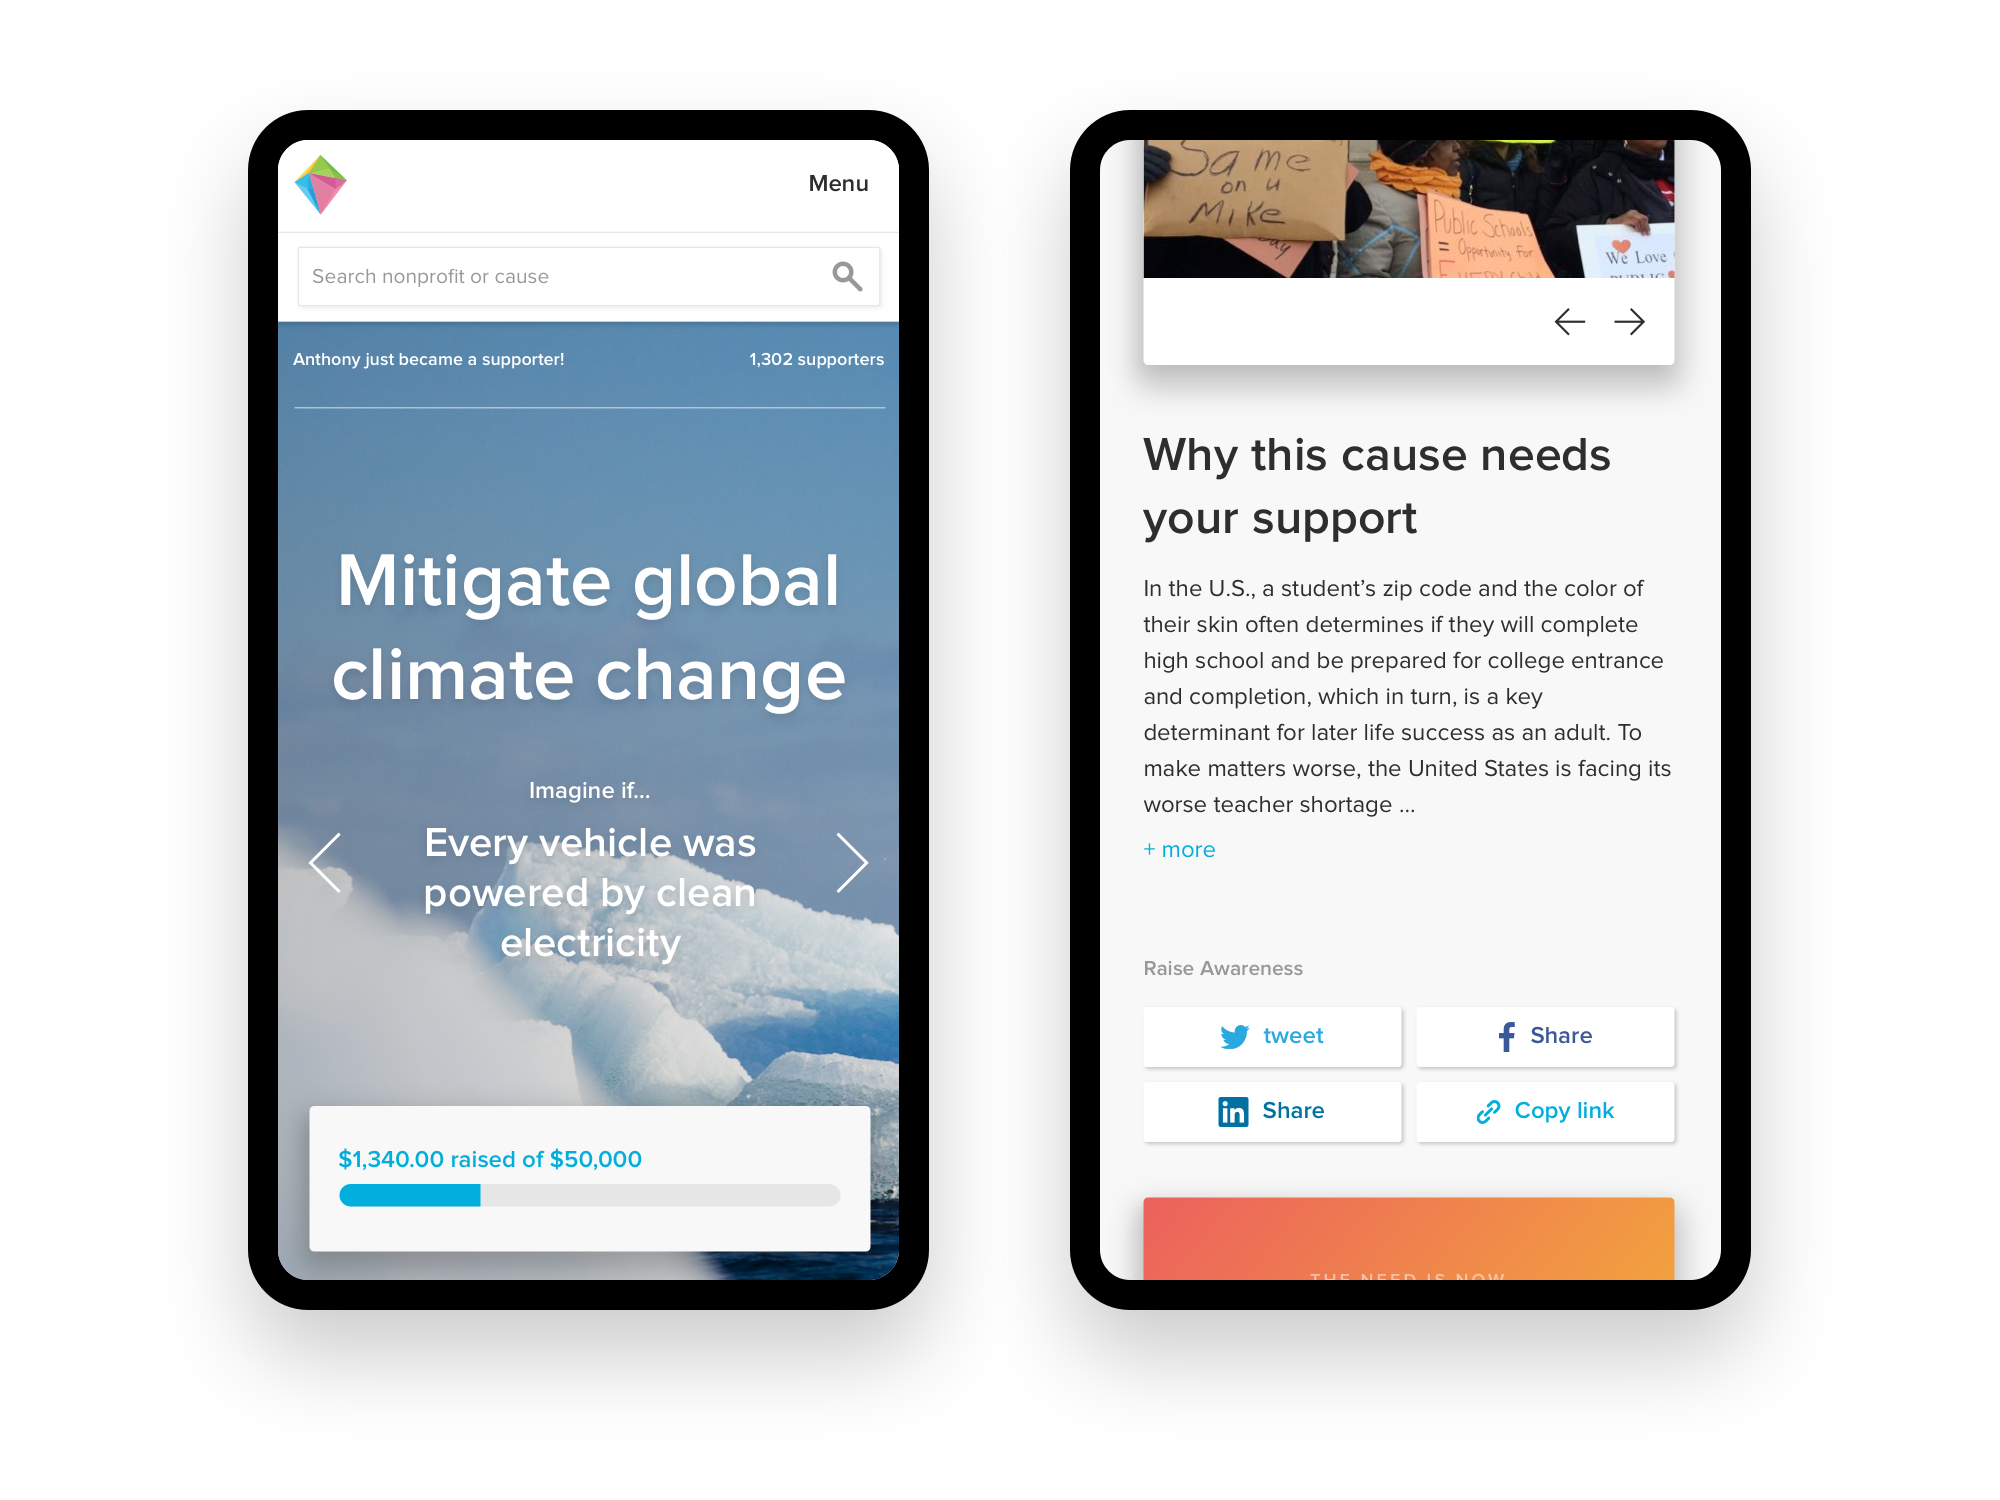
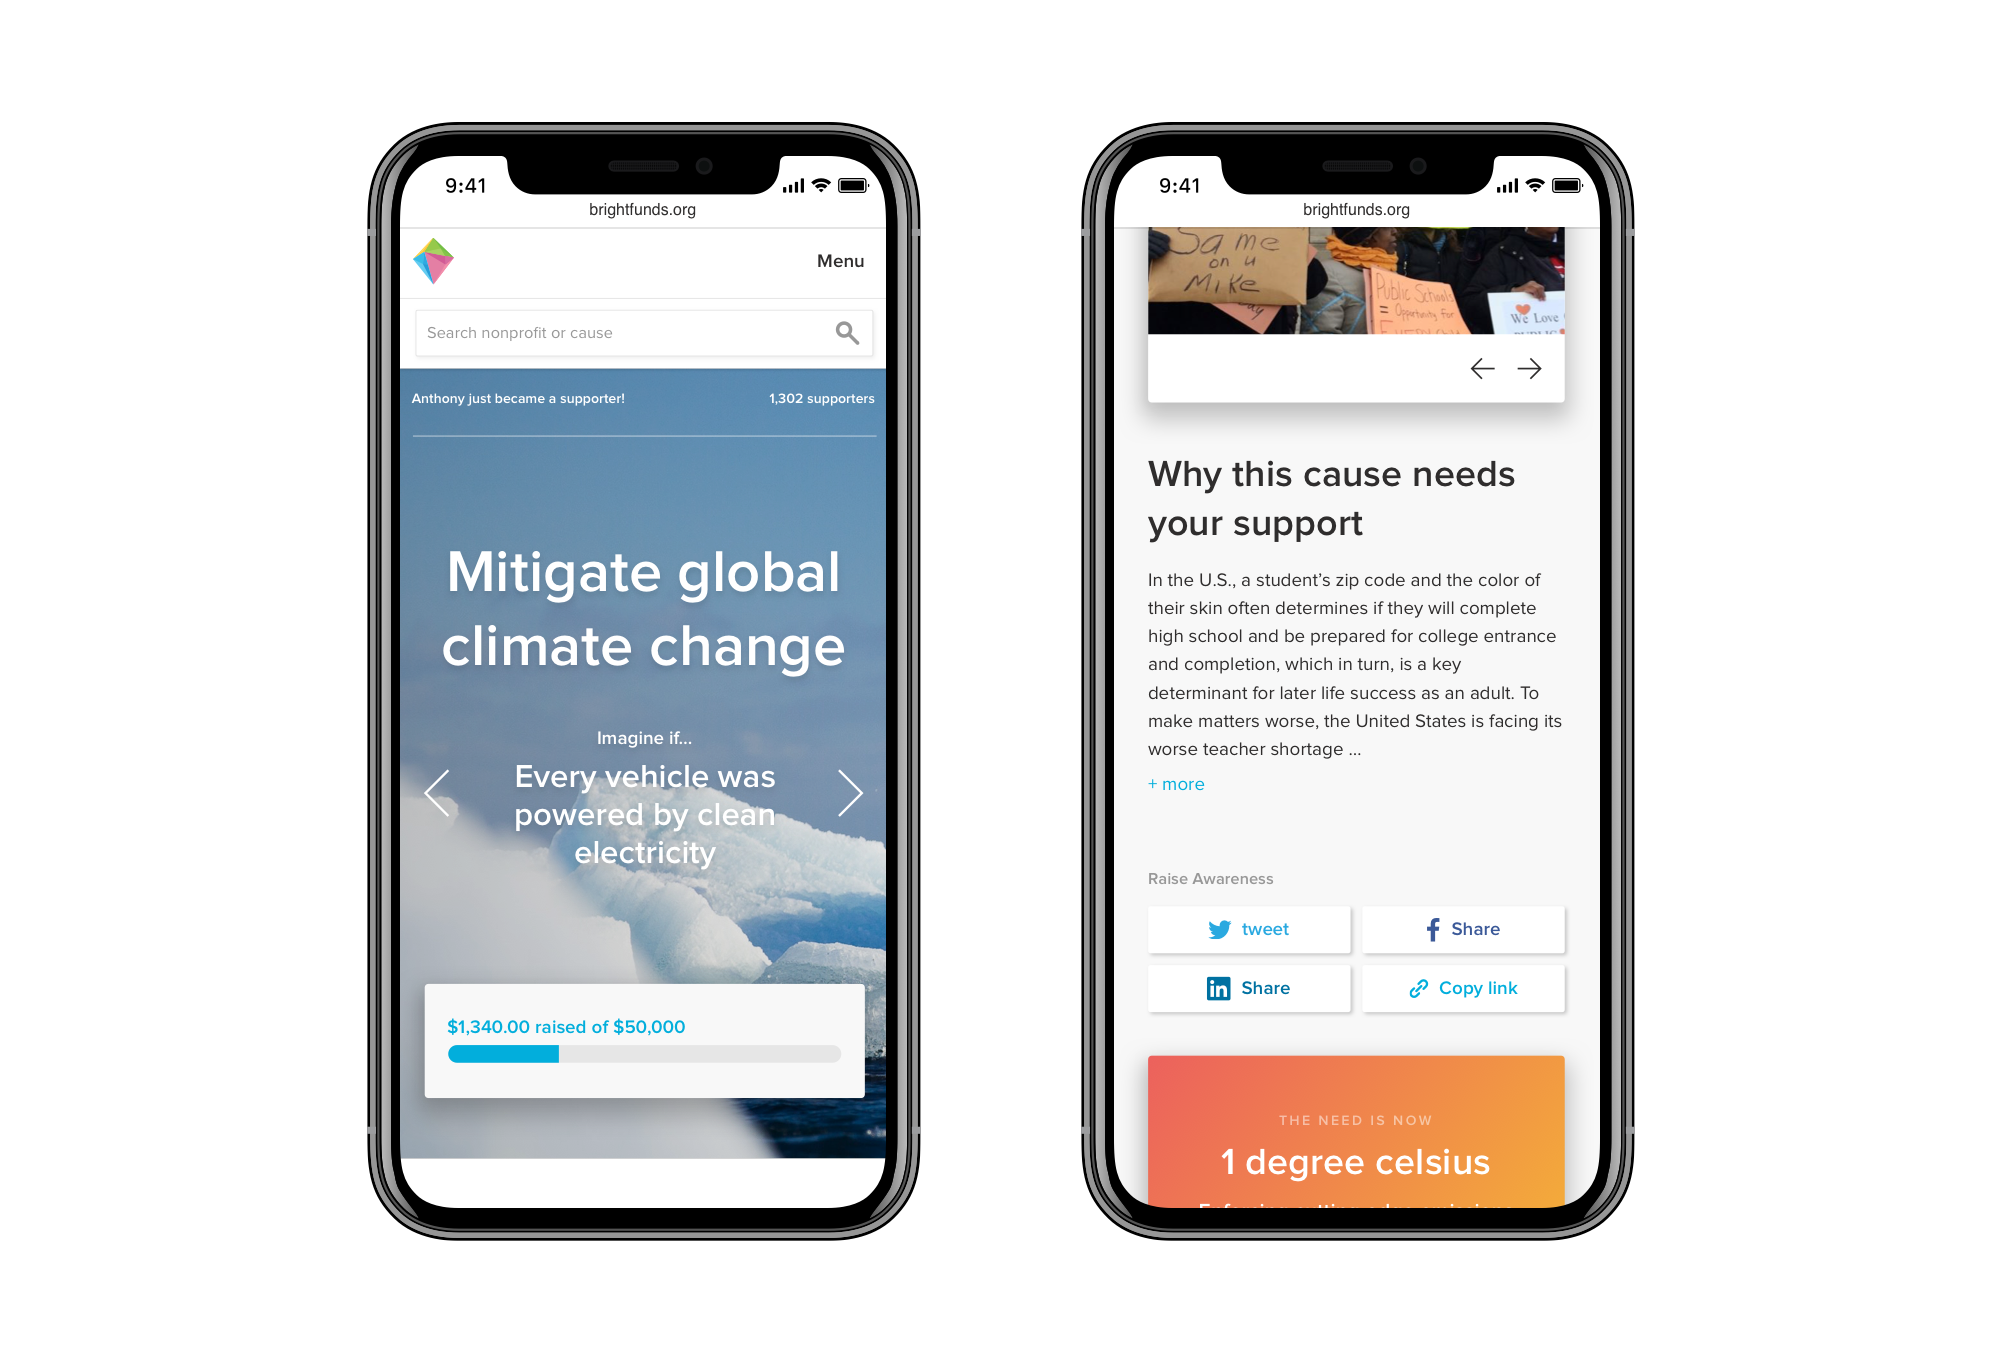
Rework foundation funn fund case study

Changed region(s): [[0.527, 0.0617, 0.899, 0.9251], [0.124, 0.0617, 0.465, 0.9251]]

diff --git a/public/css/styles.css b/public/css/styles.css
@@ -128,6 +128,12 @@ p {
   margin-bottom: 2rem;
   color: var(--color-primary-text); }
 
+.p--large {
+  font-size: 2.8rem; }
+
+.p--small {
+  font-size: 1.6rem; }
+
 blockquote {
   font-size: 2.8rem;
   line-height: 1.5;
@@ -139,9 +145,6 @@ blockquote {
       margin-left: 0;
       margin-right: 0;
       text-align: left; } }
-
-.p--large {
-  font-size: 2.8rem; }
 
 .section-title {
   font-size: 3.2rem;
@@ -704,6 +707,25 @@ li {
     border-radius: 10px;
     box-shadow: 0 30px 60px 0 rgba(0, 0, 0, 0.2); }
 
+.case-study__details {
+  grid-column: 2 / span 10;
+  grid-gap: 6rem;
+  padding: 3rem 0; }
+  .case-study__details li {
+    padding-bottom: 0; }
+  @media only screen and (max-width: 530px) {
+    .case-study__details {
+      grid-gap: 0; } }
+
+.case-study__details-section {
+  grid-column: span 4; }
+  @media only screen and (max-width: 530px) {
+    .case-study__details-section {
+      grid-column: span 12; } }
+
+.case-study__details-description {
+  opacity: .5; }
+
 .case-study__company {
   font-size: 4rem;
   color: black;
@@ -738,6 +760,57 @@ li {
   @media only screen and (max-width: 375px) {
     .case-study__content-wrapper--md {
       padding: 5rem 3rem; } }
+
+.case-study__introducing {
+  align-items: center;
+  padding: 10rem 0; }
+
+.case-study__introducing-text {
+  grid-column: 3 / span 4; }
+  @media only screen and (max-width: 920px) {
+    .case-study__introducing-text {
+      grid-column: 3 / span 8;
+      margin-bottom: 6rem; } }
+  @media only screen and (max-width: 530px) {
+    .case-study__introducing-text {
+      grid-column: 1 / span 12;
+      padding-left: 3rem;
+      padding-right: 3rem; } }
+
+.case-study__introducing-description {
+  margin-top: 3rem; }
+
+.case-study__introducing-image {
+  grid-column: span 4; }
+  .case-study__introducing-image img {
+    width: 282px;
+    float: right; }
+    @media only screen and (max-width: 920px) {
+      .case-study__introducing-image img {
+        float: left; } }
+  @media only screen and (max-width: 920px) {
+    .case-study__introducing-image {
+      grid-column: 3 / span 8; } }
+
+.case-study__problem-section {
+  background-color: var(--color-header-bg) !important; }
+
+.case-study__problems {
+  grid-column: 2 / span 10;
+  grid-gap: 3rem;
+  padding-bottom: 6rem; }
+
+.case-study__problem {
+  grid-column: span 4;
+  background-color: var(--color-primary-bg);
+  box-shadow: 0 30px 60px 0 rgba(0, 0, 0, 0.2);
+  padding: 3rem; }
+  @media only screen and (max-width: 530px) {
+    .case-study__problem {
+      grid-column: 1 / span 12; } }
+
+.case-study__problem-title {
+  opacity: .5; }
 
 .case-study__image {
   width: 100%;

diff --git a/sass/pages/_case-study.scss b/sass/pages/_case-study.scss
@@ -20,6 +20,33 @@
     }
   }
 
+  &__details {
+    grid-column: 2 / span 10;
+    grid-gap: 6rem;
+    padding: 3rem 0;
+
+    li {
+      padding-bottom: 0;
+    }
+
+    @media only screen and(max-width: 530px) {
+      grid-gap: 0;
+    }
+
+  }
+
+  &__details-section {
+    grid-column: span 4;
+
+    @media only screen and(max-width: 530px) {
+      grid-column: span 12;
+    }
+  }
+
+  &__details-description {
+    opacity: .5;
+  }
+
   &__company {
     font-size: 4rem;
     color: black;
@@ -64,6 +91,72 @@
     @media only screen and (max-width: 375px) {
       padding: 5rem 3rem;
     }
+  }
+
+  &__introducing {
+    align-items: center;
+    padding: 10rem 0;
+  }
+
+  &__introducing-text {
+    grid-column: 3 / span 4;
+    @media only screen and(max-width: 920px) {
+      grid-column: 3 / span 8;
+      margin-bottom: 6rem;
+    }
+
+    @media only screen and(max-width: 530px) {
+      grid-column: 1 / span 12;
+      padding-left: 3rem;
+      padding-right: 3rem;
+    }
+  }
+
+  &__introducing-title {
+
+  }
+
+  &__introducing-description {
+    margin-top: 3rem;;
+  }
+  &__introducing-image {
+    grid-column: span 4;
+    img {
+      width: 282px;
+      float: right;
+      @media only screen and(max-width: 920px) {
+        float: left;
+      }
+    }
+
+    @media only screen and(max-width: 920px) {
+      grid-column: 3 / span 8;
+    }
+  }
+
+  &__problem-section {
+    background-color: var(--color-header-bg) !important;
+  }
+
+  &__problems {
+    grid-column: 2 / span 10;
+    grid-gap: 3rem;
+    padding-bottom: 6rem;
+  }
+
+  &__problem {
+    grid-column: span 4;
+    background-color: var(--color-primary-bg);
+    box-shadow: $box-shadow-cs-img;
+    padding: 3rem;
+
+    @media only screen and(max-width: 530px) {
+      grid-column: 1 / span 12;
+    }
+  }
+
+  &__problem-title {
+    opacity: .5;
   }
 
   &__image {

diff --git a/sass/base/_typography.scss b/sass/base/_typography.scss
@@ -48,6 +48,14 @@ p {
   color: var(--color-primary-text);
 }
 
+.p--large {
+  font-size: 2.8rem;
+}
+
+.p--small {
+  font-size: 1.6rem;
+}
+
 blockquote {
   font-size: 2.8rem;
   line-height: 1.5;
@@ -62,9 +70,6 @@ blockquote {
   }
 }
 
-.p--large {
-  font-size: 2.8rem;
-}
 
 .section-title {
   font-size: 3.2rem;

diff --git a/app.js b/app.js
@@ -21,7 +21,7 @@ app.get("/", function(req, res) {
 });
 
 app.get("/foundation-funds", function(req, res) {
-  res.render("case_studies/foundation_funds");
+  res.render("case_studies/foundation_funds_02");
 });
 
 app.get("/increasing-awareness-and-engagement", function(req, res) {
